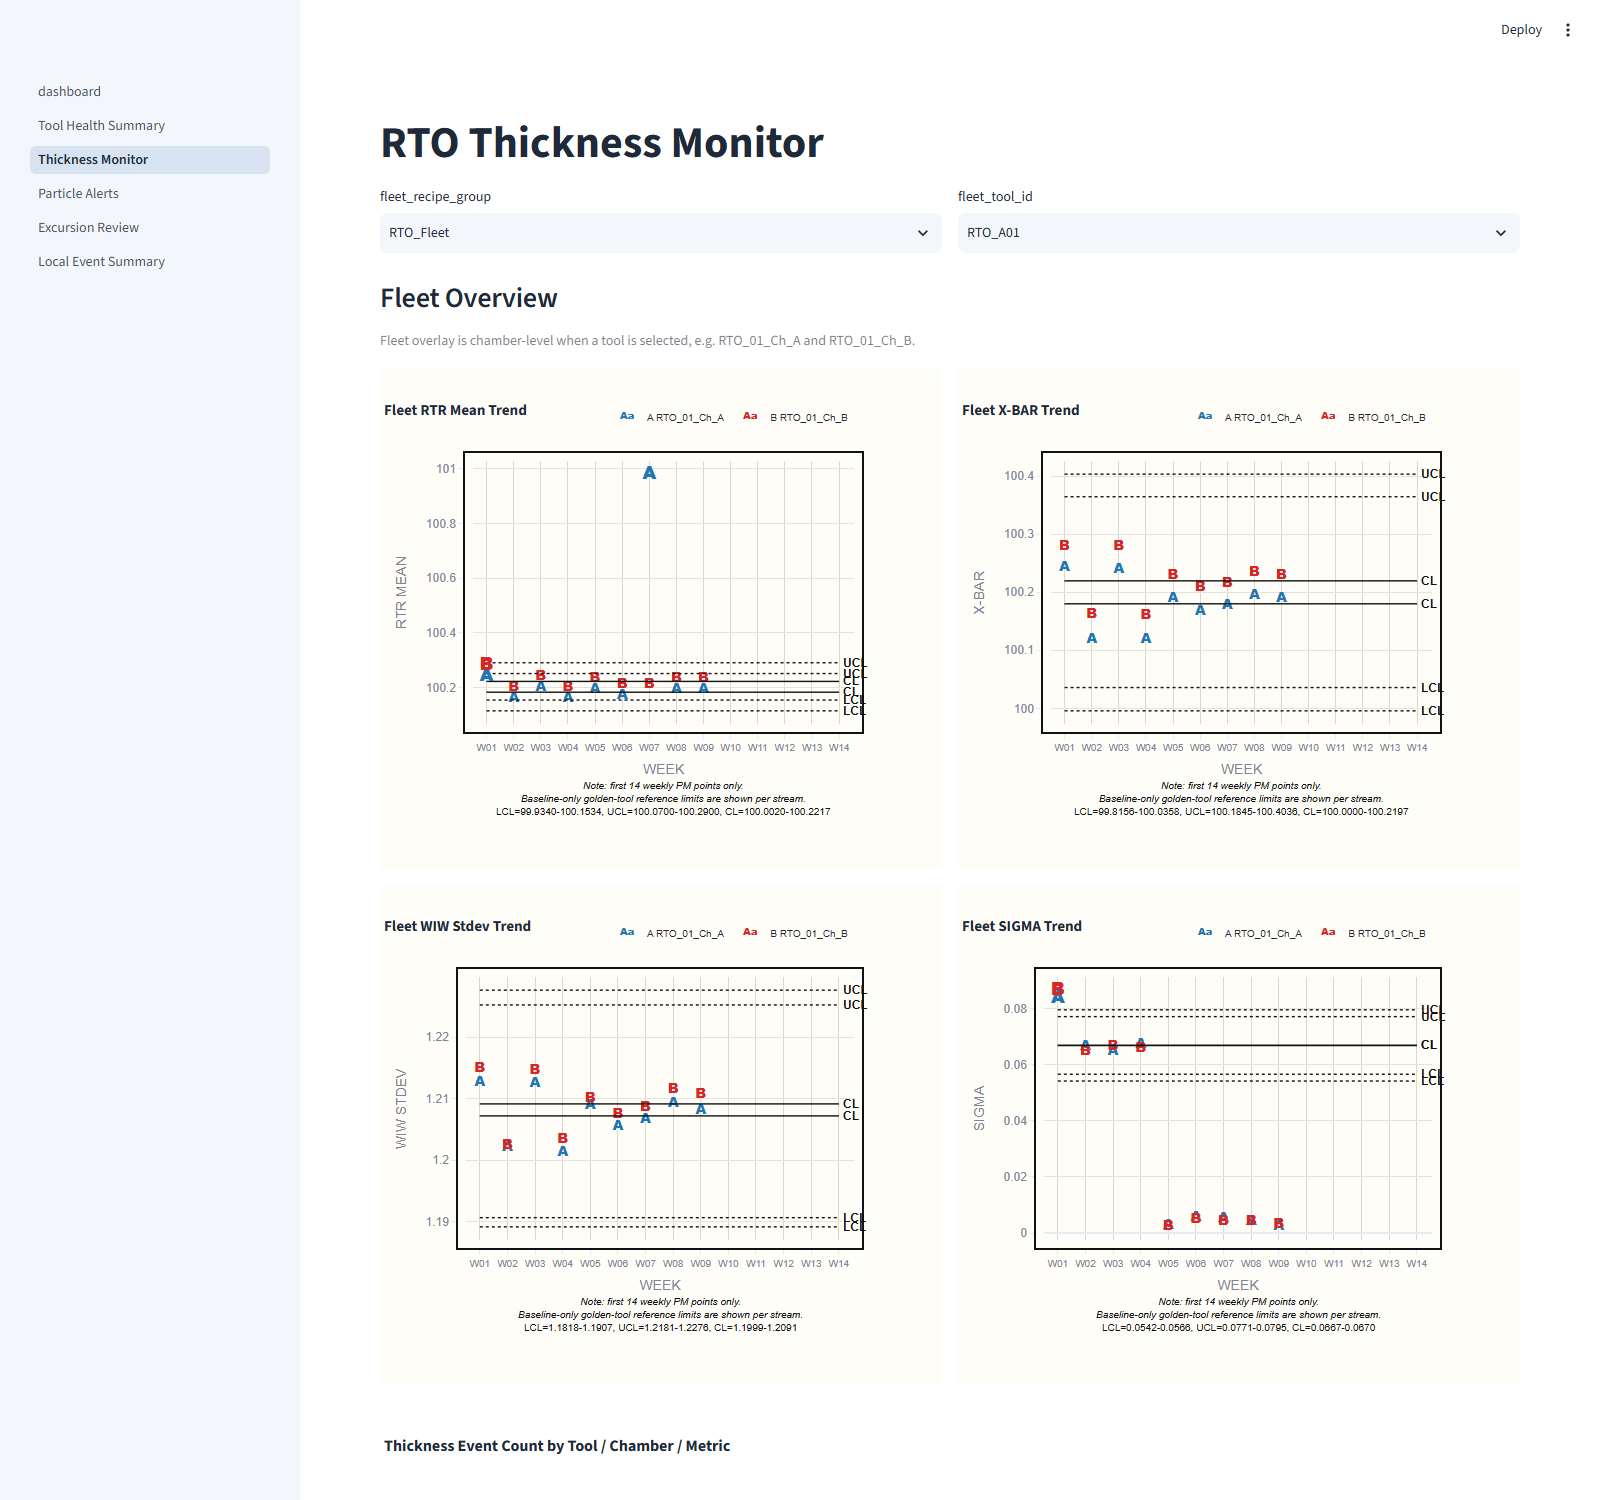
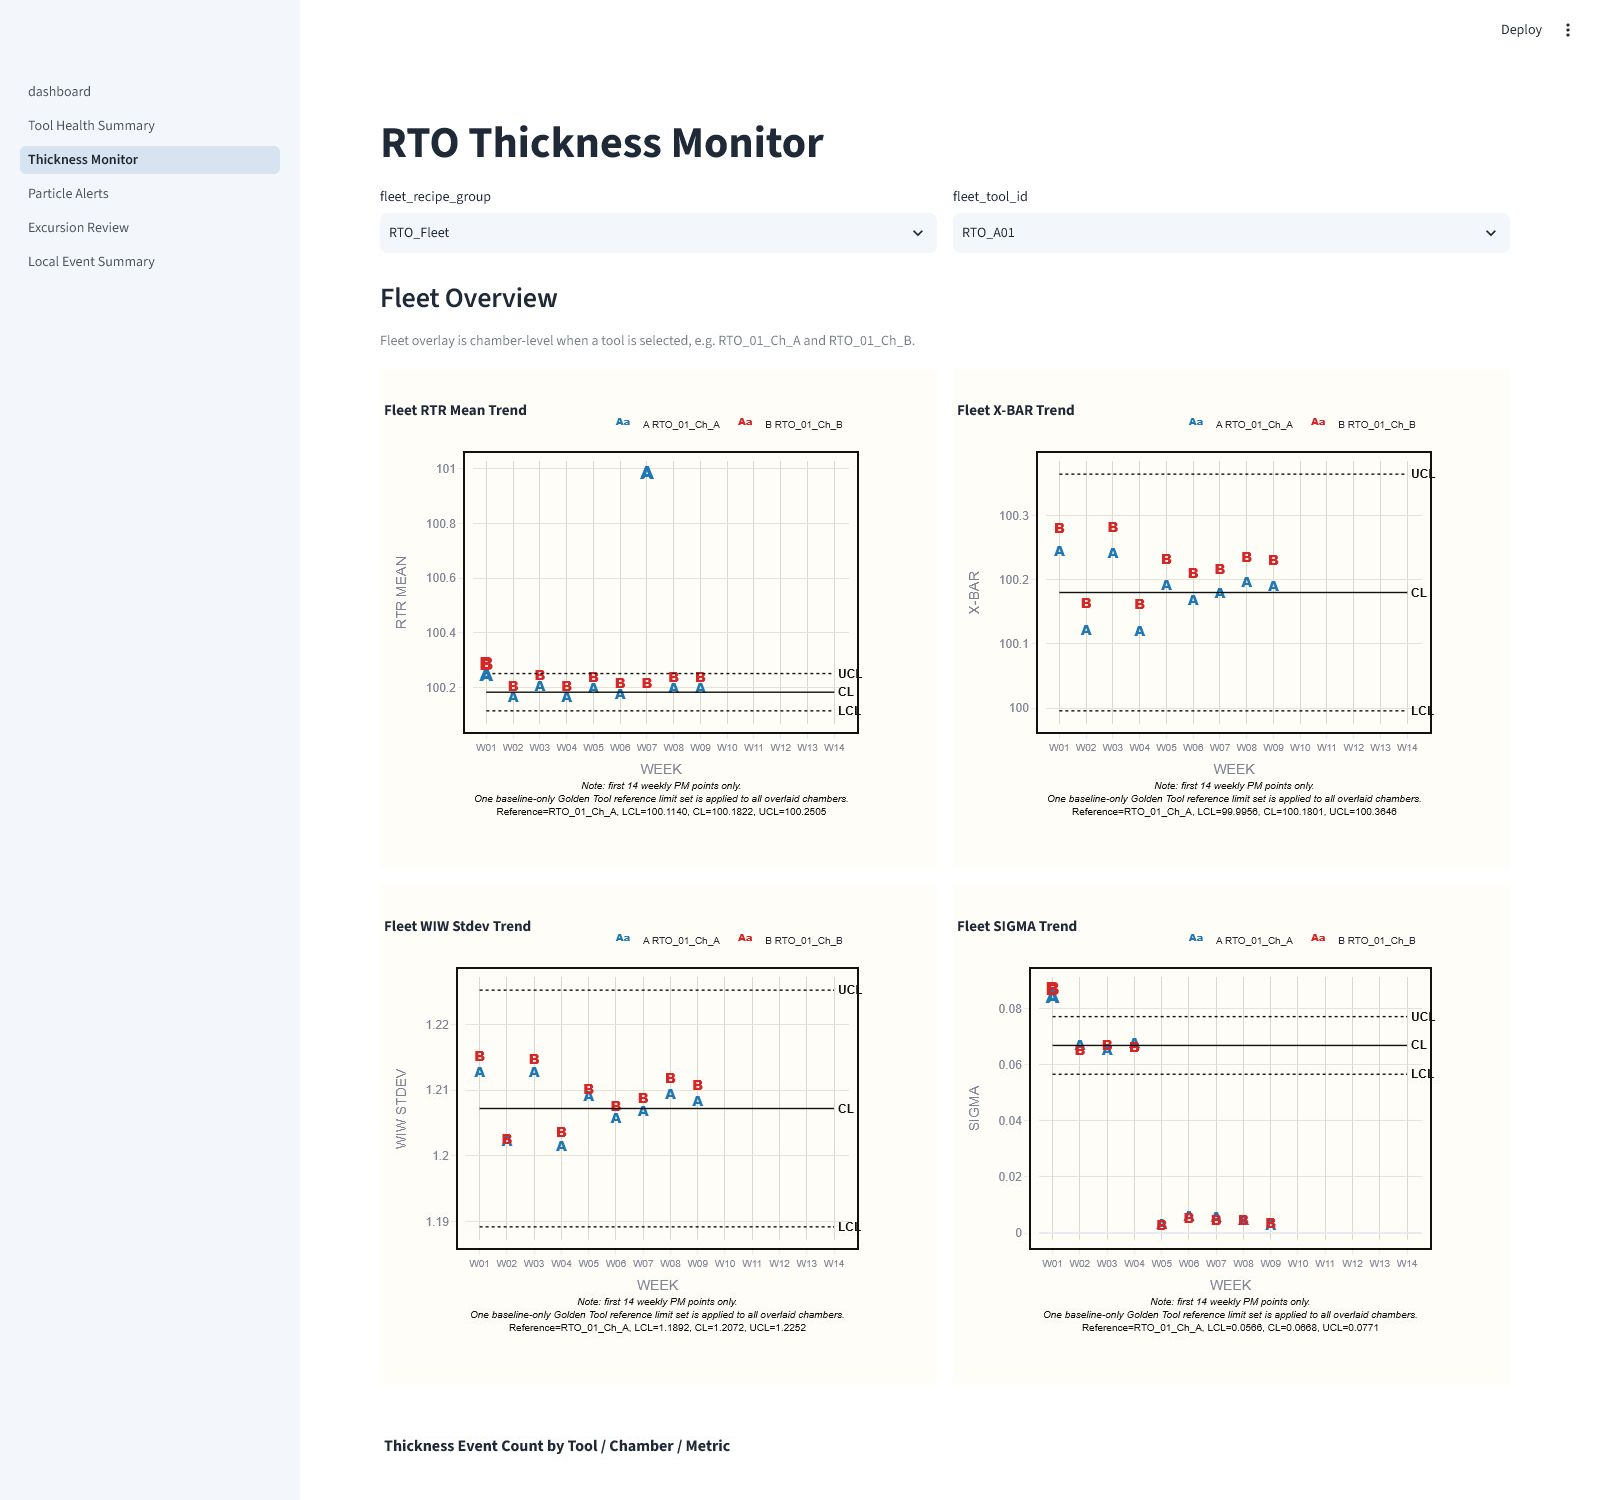
Show one Golden Tool limit set per Thickness chart

diff --git a/src/rto_spc/chart_helpers.py b/src/rto_spc/chart_helpers.py
@@ -161,6 +161,21 @@ def _prepare_letter_chart_df(df: pd.DataFrame, *, max_weeks: int = 14) -> pd.Dat
     return ordered.sort_values("_week_index")
 
 
+def _single_reference_stream(df: pd.DataFrame) -> pd.DataFrame:
+    if df.empty:
+        return df
+
+    group_columns = [column for column in ["tool_id", "chamber_id", "metric_name"] if column in df.columns]
+    if not group_columns:
+        return df
+
+    reference_key = df[group_columns].drop_duplicates().sort_values(group_columns).iloc[0]
+    reference_mask = pd.Series(True, index=df.index)
+    for column in group_columns:
+        reference_mask &= df[column] == reference_key[column]
+    return df[reference_mask].sort_values("_week_index")
+
+
 def _add_paper_limit_traces(fig: go.Figure, ordered: pd.DataFrame, limit_columns: list[tuple[str, str, str]]) -> None:
     group_columns = [column for column in ["tool_id", "chamber_id", "metric_name"] if column in ordered.columns]
     seen_limit_series: set[tuple[str, tuple[float, ...]]] = set()
@@ -283,6 +298,8 @@ def _paper_spc_letter_chart(
     event_mask: pd.Series | None = None,
     note_parts: list[str] | None = None,
     height: int = 470,
+    single_limit_set: bool = False,
+    note_intro: str = "One baseline-only reference limit set is shown.",
 ) -> go.Figure:
     if df.empty or value_column not in df:
         return _empty_figure(title)
@@ -313,7 +330,8 @@ def _paper_spc_letter_chart(
             )
         )
 
-    _add_paper_limit_traces(fig, ordered, limit_columns)
+    limit_reference = _single_reference_stream(ordered) if single_limit_set else ordered
+    _add_paper_limit_traces(fig, limit_reference, limit_columns)
 
     if "_event_flag" in ordered:
         events = ordered[ordered["_event_flag"].fillna(False).astype(bool)]
@@ -339,9 +357,21 @@ def _paper_spc_letter_chart(
                 )
             )
 
-    _add_right_limit_labels(fig, ordered, limit_columns)
-    note = ", ".join(part for part in (note_parts or []) if part)
-    return _apply_paper_spc_layout(fig, title=title, yaxis_title=yaxis_title, note=note, height=height)
+    _add_right_limit_labels(fig, limit_reference, limit_columns)
+    if note_parts is None:
+        note_parts = [
+            f"Reference={_stream_label(limit_reference.iloc[0])}",
+            *[_limit_summary(limit_reference, column, label) for column, label, _dash in reversed(limit_columns)],
+        ]
+    note = ", ".join(part for part in note_parts if part)
+    return _apply_paper_spc_layout(
+        fig,
+        title=title,
+        yaxis_title=yaxis_title,
+        note=note,
+        height=height,
+        note_intro=note_intro,
+    )
 
 
 def _paper_particle_threshold_chart(df: pd.DataFrame, metric_name: str, title: str) -> go.Figure:
@@ -472,7 +502,6 @@ def plot_fleet_thickness_trend(df: pd.DataFrame, metric_name: str) -> go.Figure:
     event_mask = _flag_series(metric_df, "warning_flag") | _flag_series(metric_df, "ooc_flag")
 
     limit_columns = [(ucl_column, "UCL", "dot"), (cl_column, "CL", "solid"), (lcl_column, "LCL", "dot")]
-    note_parts = [_limit_summary(metric_df, lcl_column, "LCL"), _limit_summary(metric_df, ucl_column, "UCL"), _limit_summary(metric_df, cl_column, "CL")]
     return _paper_spc_letter_chart(
         metric_df,
         title=title,
@@ -480,8 +509,9 @@ def plot_fleet_thickness_trend(df: pd.DataFrame, metric_name: str) -> go.Figure:
         yaxis_title=label,
         limit_columns=limit_columns,
         event_mask=event_mask,
-        note_parts=note_parts,
         height=500,
+        single_limit_set=True,
+        note_intro="One baseline-only Golden Tool reference limit set is applied to all overlaid chambers.",
     )
 
 

diff --git a/tests/test_fleet_chart_helpers.py b/tests/test_fleet_chart_helpers.py
@@ -37,7 +37,7 @@ def _fleet_thickness_rows() -> pd.DataFrame:
     return pd.DataFrame(rows)
 
 
-def test_fleet_thickness_chart_includes_multiple_tools_chambers_and_stream_limits() -> None:
+def test_fleet_thickness_chart_includes_multiple_streams_and_one_golden_limit_set() -> None:
     fig = plot_fleet_thickness_trend(_fleet_thickness_rows(), "rtr_mean")
 
     trace_names = " ".join(str(trace.name) for trace in fig.data)
@@ -46,8 +46,7 @@ def test_fleet_thickness_chart_includes_multiple_tools_chambers_and_stream_limit
 
     ucl_traces = [trace for trace in fig.data if str(trace.name).endswith(" UCL")]
     ucl_values = {tuple(float(value) for value in trace.y) for trace in ucl_traces}
-    assert (101.0, 101.0) in ucl_values
-    assert (202.0, 202.0) in ucl_values
+    assert ucl_values == {(101.0, 101.0)}
 
     assert tuple(fig.layout.xaxis.tickvals) == tuple(range(1, 15))
     assert tuple(fig.layout.xaxis.ticktext) == tuple(f"W{week:02d}" for week in range(1, 15))
@@ -57,7 +56,13 @@ def test_fleet_thickness_chart_includes_multiple_tools_chambers_and_stream_limit
         for annotation in fig.layout.annotations
         if str(annotation.text).startswith("<b>") and any(label in str(annotation.text) for label in ["UCL", "CL", "LCL"])
     ]
-    assert len(limit_annotations) == 6
+    assert limit_annotations == ["<b>UCL</b>", "<b>CL</b>", "<b>LCL</b>"]
+    note = next(annotation.text for annotation in fig.layout.annotations if str(annotation.text).startswith("<i>Note:"))
+    assert "Reference=RTO_01_Ch_A" in note
+    assert "LCL=99.0000" in note
+    assert "CL=100.0000" in note
+    assert "UCL=101.0000" in note
+    assert "202.0000" not in note
 
 
 def test_fleet_thickness_chart_uses_precomputed_event_flags() -> None:

diff --git a/tests/test_fleet_charts.py b/tests/test_fleet_charts.py
@@ -76,12 +76,12 @@ def _events() -> pd.DataFrame:
     )
 
 
-def test_fleet_thickness_chart_includes_multiple_tools_and_chambers_without_shared_limits() -> None:
+def test_fleet_thickness_chart_includes_multiple_tools_and_one_golden_limit_set() -> None:
     fig = plot_fleet_thickness_trend(_spc_rows(), "thickness_xbar")
     legend_names = {trace.name for trace in fig.data if trace.name}
     assert any("RTO_01_Ch_A" in name for name in legend_names)
     assert any("RTO_02_Ch_B" in name for name in legend_names)
-    assert len({tuple(trace.y) for trace in fig.data if "UCL" in str(trace.name)}) >= 2
+    assert {tuple(trace.y) for trace in fig.data if "UCL" in str(trace.name)} == {(101.0, 101.0)}
 
 
 def test_fleet_particle_chart_uses_threshold_logic_only() -> None:

diff --git a/app/pages/2_Thickness_Monitor.py b/app/pages/2_Thickness_Monitor.py
@@ -92,5 +92,5 @@ else:
     st.subheader("Methodology Note")
     st.write(
         "RTO thickness monitor uses module-level synthetic metrics: RTR Mean, X-BAR, WIW Stdev, and SIGMA. "
-        "Limits are calculated from baseline data only for each tool/chamber/recipe/metric stream."
+        "Each fleet overlay shows one baseline-only Golden Tool LCL/CL/UCL reference set for all displayed chambers."
     )

diff --git a/README.md b/README.md
@@ -18,9 +18,9 @@ This is an RTO-only synthetic dashboard.
 
 ### RTO Thickness Fleet Overlay
 
-RTR Mean, X-BAR, WIW Stdev, and SIGMA retain baseline-only limits for each tool/chamber/recipe/metric stream.
+RTR Mean, X-BAR, WIW Stdev, and SIGMA overlay chamber A/B points against one baseline-only Golden Tool LCL/CL/UCL reference set per chart.
 
-![Four RTO thickness SPC charts with chamber-level A/B overlays and right-side UCL, CL, and LCL labels](docs/screenshots/thickness_monitor.png)
+![Four RTO thickness SPC charts with chamber-level A/B overlays and one Golden Tool UCL, CL, and LCL reference set per chart](docs/screenshots/thickness_monitor.png)
 
 ### Particle Fleet Overlay
 
